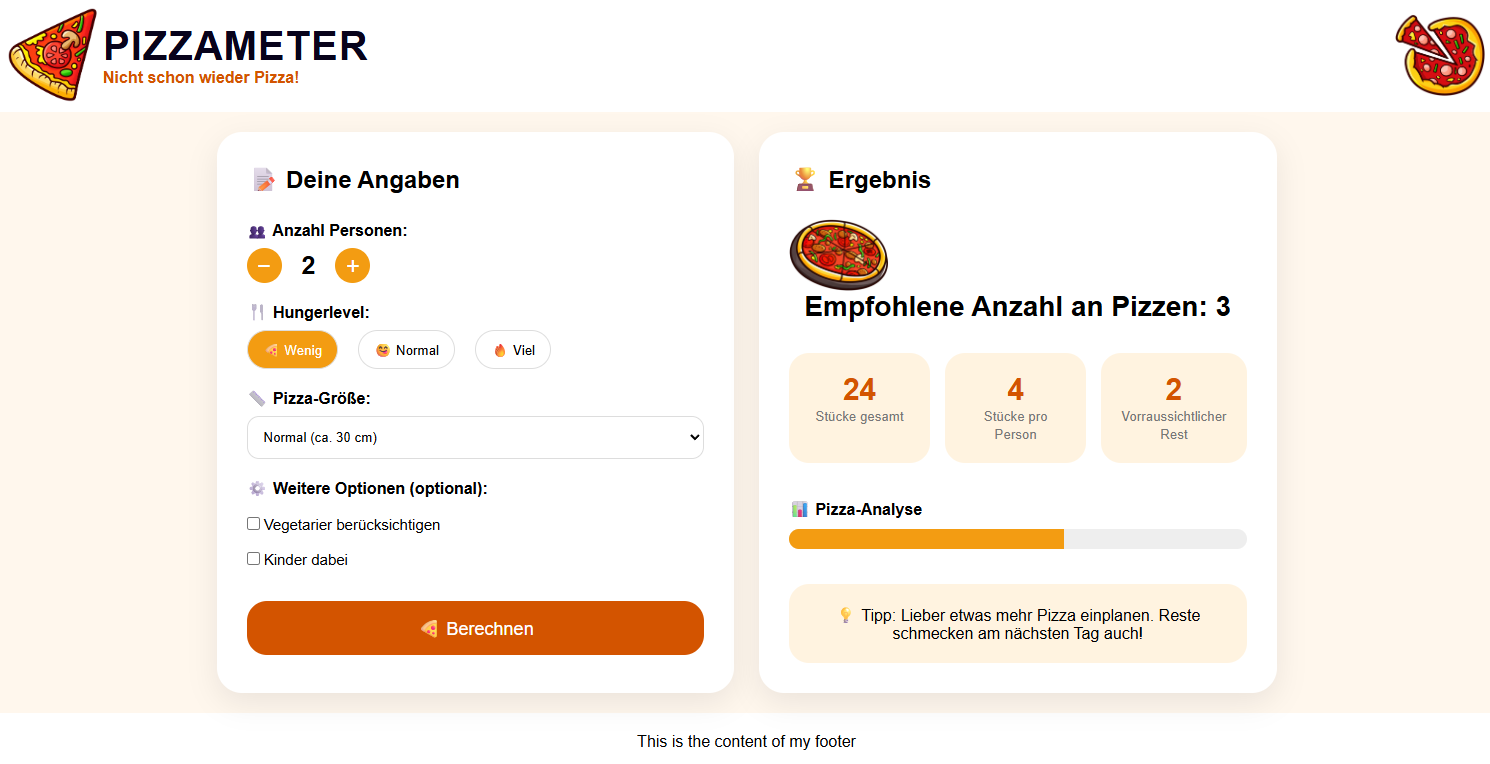
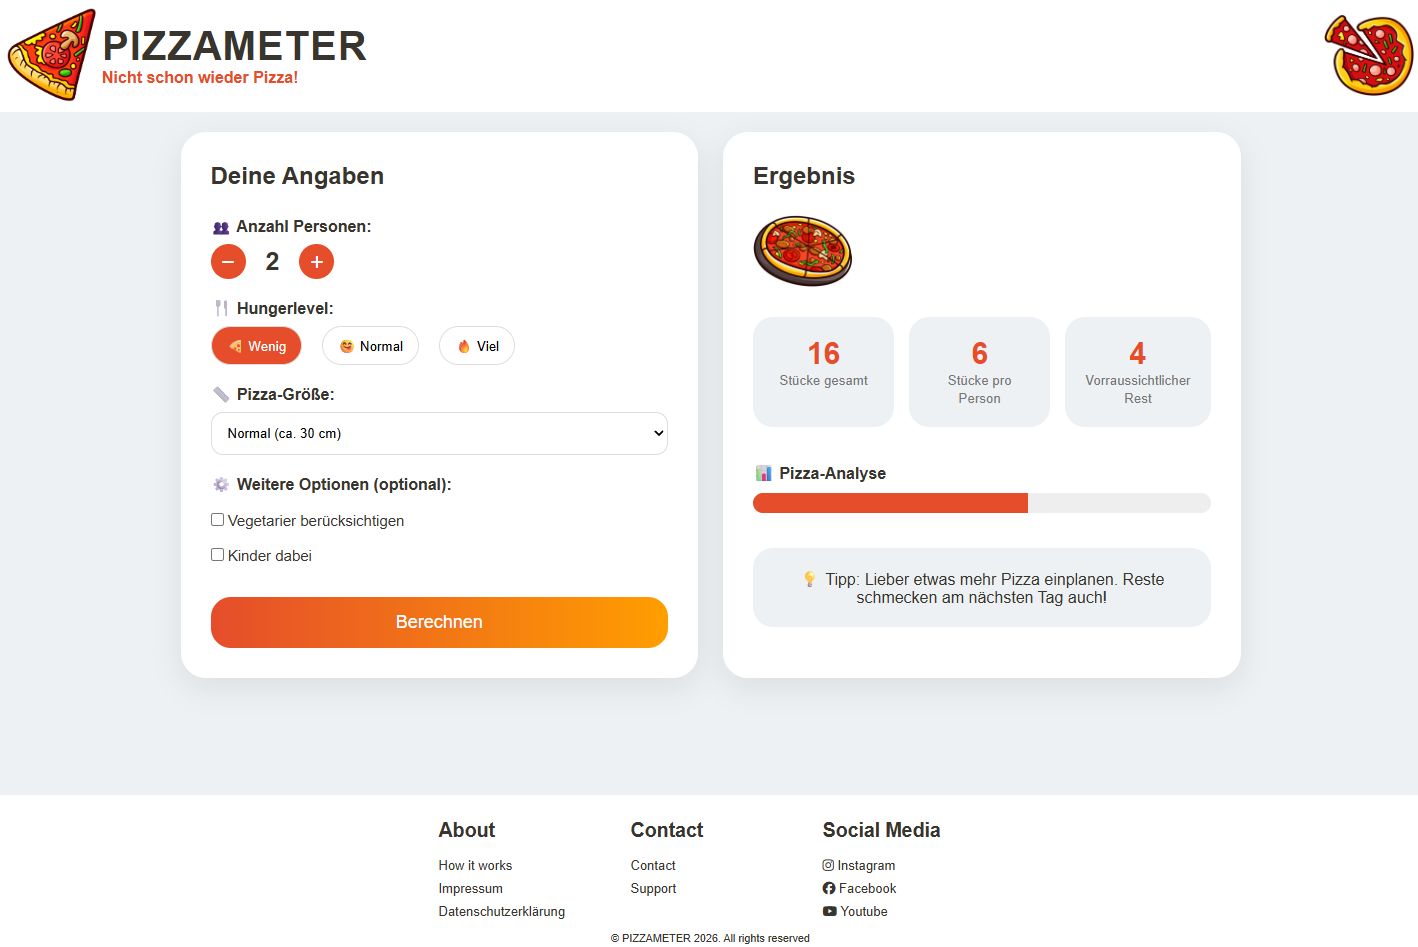
added footer

diff --git a/style.css b/style.css
@@ -245,13 +245,70 @@ select {
 
 /* Footer */
 
-footer {
-  text-align: center;
-  padding: 20px;
+.footer {
+  font-size: small;
   background: #ffffff;
   position: fixed;
   bottom: 0;
   width: 100%;
+  padding: 0.5rem 0;
+  display: flex;
+  flex-direction: column;
+  justify-content: center;
+  align-items: center;
+}
+
+.footer_links {
+  width: 100%;
+  max-width: 1000px;
+  display: flex;
+  justify-content: center;
+}
+
+.footer_link-wrapper {
+  display: flex;
+}
+
+.footer_link-items {
+  display: flex;
+  flex-direction: column;
+  align-items: flex-start;
+  margin: 16px;
+  margin-bottom: 5px;
+  text-align: left;
+  width: 160px;
+  box-sizing: border-box;
+}
+
+.footer_link-items h2 {
+  margin-bottom: 16px;
+  color: #37352e;
+}
+
+.footer_link-items a {
+  color: #37352e;
+  text-decoration: none;
+  margin-bottom: 0.5rem;
+  transition: 0.3s ease-out;
+}
+
+.footer_link-items a:hover {
+  color: #e54d2b;
+}
+
+.bottom_section {
+  width: 100%;
+  max-width: 1000px;
+  margin: 0 auto;
+}
+
+.bottom_section-wrap {
+  display: flex;
+  align-items: center;
+  justify-content: center;
+  width: 90%;
+  margin: 0 auto;
+  font-size: smaller;
 }
 
 /* Mobile */
@@ -267,5 +324,39 @@ footer {
 
   .stats {
     flex-direction: column;
+  }
+
+  .footer_links {
+    padding-top: 2rem;
+  }
+
+  #footer_logo {
+    margin-bottom: 2rem;
+  }
+
+  .website_rights {
+    margin-bottom: 2rem;
+  }
+
+  .footer_link-wrapper {
+    flex-direction: column;
+  }
+
+  .social_media-wrap {
+    flex-direction: column;
+  }
+}
+
+@media screen and (max-width: 480px) {
+  .footer_link-items {
+    margin: 0;
+    padding: 10px;
+    width: 100%;
+    text-align: center;
+  }
+
+  .footer_link-wrapper {
+    flex-direction: column;
+    align-items: center;
   }
 }

diff --git a/index.html b/index.html
@@ -5,6 +5,10 @@
     <meta name="viewport" content="width=device-width, initial-scale=1.0" />
     <title>Pizzameter</title>
     <link rel="stylesheet" href="style.css" />
+    <link
+      rel="stylesheet"
+      href="https://cdnjs.cloudflare.com/ajax/libs/font-awesome/6.5.2/css/all.min.css"
+    />
   </head>
   <body>
     <header>
@@ -98,7 +102,34 @@
       </div>
     </main>
     <footer>
-      <div>This is the content of my footer</div>
+      <div class="footer">
+        <div class="footer_links">
+          <div class="footer_link-wrapper">
+            <div class="footer_link-items">
+              <h2>About</h2>
+              <a href="#">How it works</a>
+              <a href="#">Impressum</a>
+              <a href="#">Datenschutzerklärung</a>
+            </div>
+            <div class="footer_link-items">
+              <h2>Contact</h2>
+              <a href="#">Contact</a>
+              <a href="#">Support</a>
+            </div>
+            <div class="footer_link-items">
+              <h2>Social Media</h2>
+              <a href="#"><i class="fab fa-instagram"></i> Instagram</a>
+              <a href="#"><i class="fab fa-facebook"></i> Facebook</a>
+              <a href="#"><i class="fab fa-youtube"></i> Youtube</a>
+            </div>
+          </div>
+        </div>
+        <section class="bottom_section">
+          <div class="bottom_section-wrap">
+            <p class="website_rights">© PIZZAMETER 2026. All rights reserved</p>
+          </div>
+        </section>
+      </div>
     </footer>
     <script src="index.js"></script>
   </body>

diff --git a/README.md b/README.md
@@ -12,14 +12,14 @@ Javascript, HTML, CSS
 
 ## 🕑 Current status
 
-<img src="img/current_status.png" alt="screenshot" width="800" height="450">
+<img src="img/current_status.png" alt="screenshot" width="700" height="480">
 
 ## ✔ ToDo´s
 
 - ~~erstes grobes Grundgerüst erstellen~~
 - ~~Header fertigstellen~~
   > ~~Logo, Name und Slogan nach links, rechts Pizzasymbol einfügen~~
-- Footer fertigstellen
+- ~~Footer fertigstellen~~
 - ~~Berechnung der Pizzastücke hinzufügen anhand der Personenanzahl, Hungerlevel und Pizzagröße~~
 - Ergebnis der Berechnung anzeigen lassen
 - weitere Optionen hinzufügen und für die Berechnung berücksichtigen
@@ -32,6 +32,7 @@ Javascript, HTML, CSS
   > zum Beispiel 7 Tipps, die täglich wechseln
   > z. B wie man eine Pizza am nächsten Tag perfekt erwärmt
 - Icon im Tab anzeigen
+- @media Abfragen in CSS für footer richtig anpassen
 - Aussehen der Seite verschönern
 - Tests hinzufügen
 - Dokumentation schreiben
